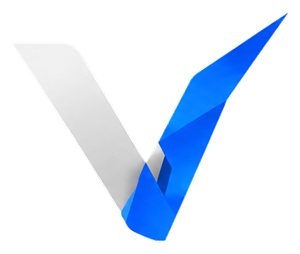
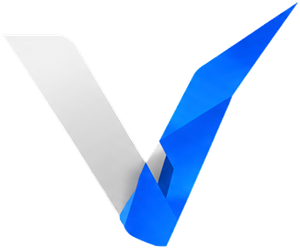
fix(brand): alinhamento optico do icone Valion no rodape (REF-BRAND-02)
Ajustes puramente opticos, sem mudar tamanho/peso/cor (pedido do
dono): recorte do simbolo rente ao pixel visivel (removido o
padding transparente residual do recorte anterior, que empurrava o
icone pra baixo/direita sem necessidade) + alinhamento pela borda
inferior do elemento substituido (align-items:baseline do flex pai,
sem transform manual) + pequeno ajuste fino (-2px vertical, -5px
horizontal) pra encostar o "V" em "ALION" como uma palavra so, base
do V rente a linha de base do texto.

Validado visualmente (Playwright, 3x scale) desktop/mobile/hover.
render.smoke, build e test:domain seguem verdes (mudanca e' so CSS +
bytes do PNG, sem alteracao de markup).

diff --git a/src/index.css b/src/index.css
@@ -1370,12 +1370,16 @@ img{display:block;max-width:100%}
 
 .valion-word{display:inline-flex;align-items:baseline;line-height:1;white-space:nowrap}
 .valion-v-icon{
-  height:1.55em;width:auto;align-self:flex-start;
-  transform:translateY(.16em);margin-right:.02em;
+  /* REF-BRAND-02 (ajuste fino): imagem recortada rente ao pixel visivel (sem padding
+     transparente sobrando) -- a borda de baixo da img already e' a ponta do "V", entao o
+     align-items:baseline do pai (padrao de elemento substituido = borda inferior) encosta o
+     "V" na linha de base de "ALION" sem transform manual nenhum. */
+  height:1.55em;width:auto;align-self:baseline;
+  margin-right:-5px;transform:translateY(-2px);
   transition:transform .18s ease;
 }
 .valion-credit-link:hover .valion-v-icon,
-.valion-credit-link:focus-visible .valion-v-icon{transform:translateY(.16em) rotate(-4deg)}
+.valion-credit-link:focus-visible .valion-v-icon{transform:translateY(-2px) rotate(-4deg)}
 .valion-word b{font-size:22px;color:#070E20;font-weight:700;letter-spacing:.005em}
 .valion-word i{
   font-size:18px;color:#0B4FBE;font-weight:600;font-style:normal;
